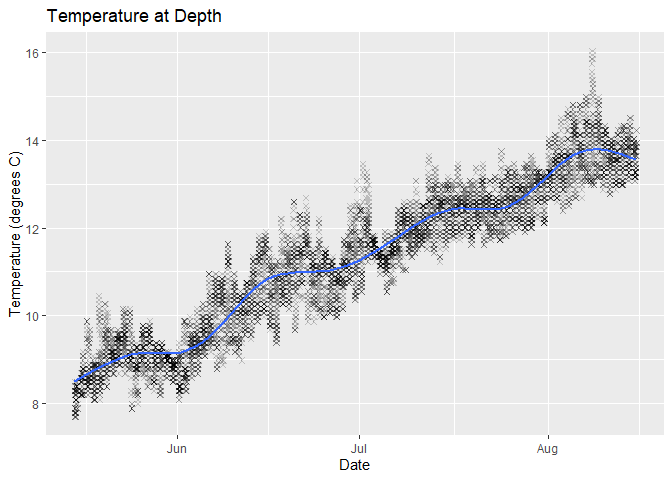
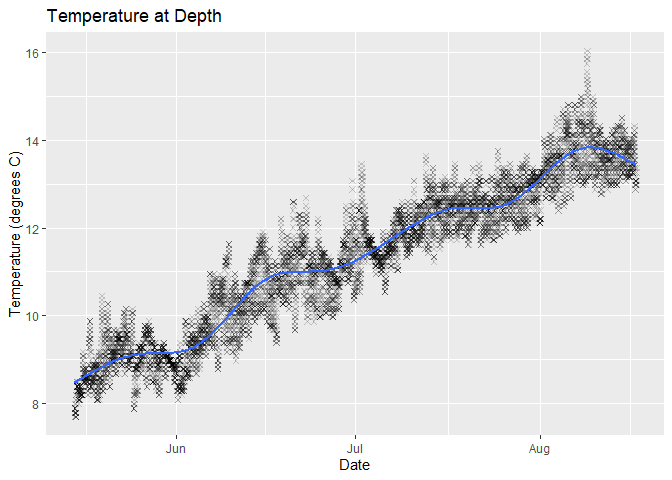
added clipping function

diff --git a/README.md b/README.md
@@ -25,54 +25,104 @@ x <- read_hobotemp()
 x
 ```
 
-    ## # A tibble: 9,169 x 9
-    ##    Reading DateTime             Temp Intensity Coupler.detached Coupler.attached
-    ##      <dbl> <dttm>              <dbl>     <dbl> <chr>            <chr>           
-    ##  1       1 2021-05-14 07:19:00  20.1         1 <NA>             <NA>            
-    ##  2       2 2021-05-14 07:19:00  NA          NA Logged           <NA>            
-    ##  3       3 2021-05-14 07:34:00  20.5        36 <NA>             <NA>            
-    ##  4       4 2021-05-14 07:49:00  20.5        37 <NA>             <NA>            
-    ##  5       5 2021-05-14 08:04:00  15.5        26 <NA>             <NA>            
-    ##  6       6 2021-05-14 08:19:00  14.0        25 <NA>             <NA>            
-    ##  7       7 2021-05-14 08:34:00  14.7        38 <NA>             <NA>            
-    ##  8       8 2021-05-14 08:49:00  14.7       123 <NA>             <NA>            
-    ##  9       9 2021-05-14 09:04:00  13.9        60 <NA>             <NA>            
-    ## 10      10 2021-05-14 09:19:00  15.3        35 <NA>             <NA>            
-    ## # ... with 9,159 more rows, and 3 more variables: Host.connected <chr>,
-    ## #   Stopped <chr>, End.file <chr>
-
-## Read Example Data with Defined Deploy/Recover Dates
-
-``` r
-d <- as.POSIXct("2021-05-15", "")
-r <- as.POSIXct("2021-08-16", "")
-xdr <- read_hobotemp(deploy = d, recover = r)
-xdr
-```
-
-    ## # A tibble: 8,928 x 9
-    ##    Reading DateTime             Temp Intensity Coupler.detached Coupler.attached
-    ##      <dbl> <dttm>              <dbl>     <dbl> <chr>            <chr>           
-    ##  1      69 2021-05-15 12:04:00  7.98         0 <NA>             <NA>            
-    ##  2      70 2021-05-15 12:19:00  7.88         0 <NA>             <NA>            
-    ##  3      71 2021-05-15 12:34:00  7.88         0 <NA>             <NA>            
-    ##  4      72 2021-05-15 12:49:00  7.88         0 <NA>             <NA>            
-    ##  5      73 2021-05-15 01:04:00  7.78         0 <NA>             <NA>            
-    ##  6      74 2021-05-15 01:19:00  7.78         0 <NA>             <NA>            
-    ##  7      75 2021-05-15 01:34:00  7.78         0 <NA>             <NA>            
-    ##  8      76 2021-05-15 01:49:00  7.78         0 <NA>             <NA>            
-    ##  9      77 2021-05-15 02:04:00  7.88         0 <NA>             <NA>            
-    ## 10      78 2021-05-15 02:19:00  7.88         0 <NA>             <NA>            
-    ## # ... with 8,918 more rows, and 3 more variables: Host.connected <chr>,
-    ## #   Stopped <chr>, End.file <chr>
+    ## # A tibble: 9,025 x 4
+    ##    Reading DateTime             Temp Intensity
+    ##      <dbl> <dttm>              <dbl>     <dbl>
+    ##  1      69 2021-05-15 00:04:32  7.98         0
+    ##  2      70 2021-05-15 00:19:32  7.88         0
+    ##  3      71 2021-05-15 00:34:32  7.88         0
+    ##  4      72 2021-05-15 00:49:32  7.88         0
+    ##  5      73 2021-05-15 01:04:32  7.78         0
+    ##  6      74 2021-05-15 01:19:32  7.78         0
+    ##  7      75 2021-05-15 01:34:32  7.78         0
+    ##  8      76 2021-05-15 01:49:32  7.78         0
+    ##  9      77 2021-05-15 02:04:32  7.88         0
+    ## 10      78 2021-05-15 02:19:32  7.88         0
+    ## # ... with 9,015 more rows
 
 ## Draw Example Plot
 
 ``` r
-tempplot <- draw_plot(xdr)
-tempplot
+tempplot_x <- draw_plot(x)
+tempplot_x
 ```
 
     ## `geom_smooth()` using method = 'gam' and formula 'y ~ s(x, bs = "cs")'
 
 ![](README_files/figure-gfm/tempplot-1.png)<!-- -->
+
+## Read Example Data With User Defined Start/Stop Dates
+
+``` r
+ss <- as.POSIXct(c("2021-05-20", "2021-06-01"), tz = "EST")
+xud <- read_hobotemp(clipped = "user", startstop = ss)
+```
+
+    ## Warning in if (is.na(startstop)) {: the condition has length > 1 and only the
+    ## first element will be used
+
+    ## Warning in if (!is.na(startstop)) {: the condition has length > 1 and only the
+    ## first element will be used
+
+``` r
+xud
+```
+
+    ## # A tibble: 1,152 x 4
+    ##    Reading DateTime             Temp Intensity
+    ##      <dbl> <dttm>              <dbl>     <dbl>
+    ##  1     549 2021-05-20 00:04:32  9.37         0
+    ##  2     550 2021-05-20 00:19:32  9.28         0
+    ##  3     551 2021-05-20 00:34:32  9.37         0
+    ##  4     552 2021-05-20 00:49:32  9.37         0
+    ##  5     553 2021-05-20 01:04:32  9.47         0
+    ##  6     554 2021-05-20 01:19:32  9.57         0
+    ##  7     555 2021-05-20 01:34:32  9.57         0
+    ##  8     556 2021-05-20 01:49:32  9.47         0
+    ##  9     557 2021-05-20 02:04:32  9.57         0
+    ## 10     558 2021-05-20 02:19:32  9.47         0
+    ## # ... with 1,142 more rows
+
+## Draw Example Plot User Defined Start/Stop Dates
+
+``` r
+tempplot_xud <- draw_plot(xud)
+tempplot_xud
+```
+
+    ## `geom_smooth()` using method = 'gam' and formula 'y ~ s(x, bs = "cs")'
+
+![](README_files/figure-gfm/tempplot_ud-1.png)<!-- -->
+
+## Read Example Data Without Clipping Data
+
+``` r
+xna <- read_hobotemp(clipped = NA)
+xna
+```
+
+    ## # A tibble: 9,169 x 4
+    ##    Reading DateTime             Temp Intensity
+    ##      <dbl> <dttm>              <dbl>     <dbl>
+    ##  1       1 2021-05-14 07:19:32  20.1         1
+    ##  2       2 2021-05-14 07:19:59  NA          NA
+    ##  3       3 2021-05-14 07:34:32  20.5        36
+    ##  4       4 2021-05-14 07:49:32  20.5        37
+    ##  5       5 2021-05-14 08:04:32  15.5        26
+    ##  6       6 2021-05-14 08:19:32  14.0        25
+    ##  7       7 2021-05-14 08:34:32  14.7        38
+    ##  8       8 2021-05-14 08:49:32  14.7       123
+    ##  9       9 2021-05-14 09:04:32  13.9        60
+    ## 10      10 2021-05-14 09:19:32  15.3        35
+    ## # ... with 9,159 more rows
+
+## Draw Example Plot Without Clipping Data
+
+``` r
+tempplot_na <- draw_plot(xna)
+tempplot_na
+```
+
+    ## `geom_smooth()` using method = 'gam' and formula 'y ~ s(x, bs = "cs")'
+
+![](README_files/figure-gfm/tempplot_na-1.png)<!-- -->
